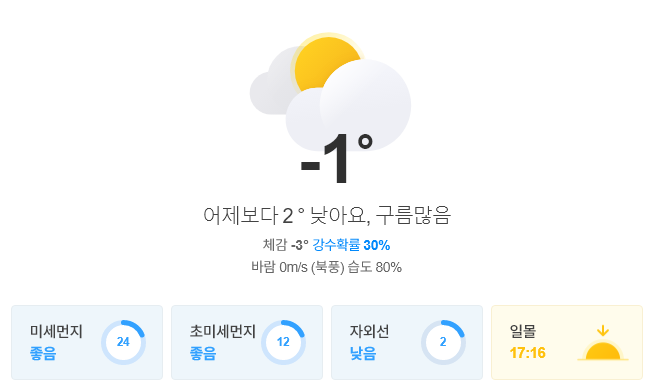
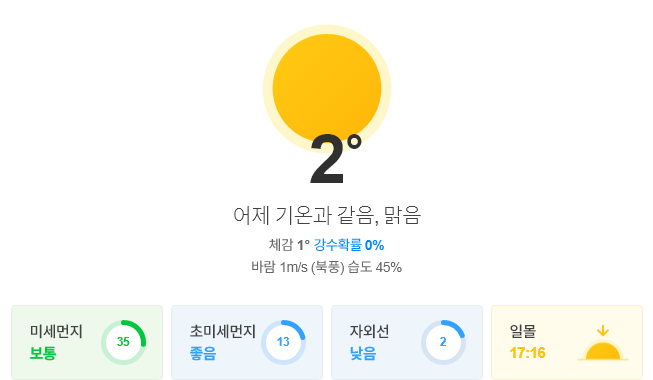
update result

diff --git a/README.md b/README.md
@@ -1,13 +1,13 @@
-##  2020-11-30 09:16:41   월요일 
-##### 날씨   -   어제보다 3 ° 낮아요, 구름많음
+##  2020-11-30 12:07:23   월요일 
+##### 날씨   -   어제 기온과 같음, 맑음
 <center><img src="../img/naver_weather_week.png"></center>
 ----
 ----
 ##### 지수
 <table border="1" bordercolor="blue" align = "center" >
 <tr align = "right" > <td>Item</td><td>Point</td><td>Diff</td><td>Rate</td><td>Buy</td><td>Sell</td><td>...</td>  </tr>
-<tr align = "right" > <td>KOSPI</td><td>2,634.51</td><td>1.06</td><td><font size="3" color="red" >0.04%</font> </td><td><font size="3" color="black">2,000</font></td><td><font size="3" color="black">3,000</font></td><td>0</td>  </tr>
-<tr align = "right" > <td>KOSDAQ</td><td>890.7</td><td>5.14</td><td><font size="3" color="red" >0.58%</font> </td><td><font size="3" color="black">0</font></td><td><font size="3" color="black">0</font></td><td>0</td>  </tr>
+<tr align = "right" > <td>KOSPI</td><td>2,621.77</td><td>-11.68</td><td><font size="3" color="blue" >-0.44%</font> </td><td><font size="3" color="black">2,000</font></td><td><font size="3" color="black">3,000</font></td><td>0</td>  </tr>
+<tr align = "right" > <td>KOSDAQ</td><td>889.21</td><td>3.65</td><td><font size="3" color="red" >0.41%</font> </td><td><font size="3" color="black">0</font></td><td><font size="3" color="black">0</font></td><td>0</td>  </tr>
 </table>
 ----
 ##### 세계
@@ -16,14 +16,14 @@
 <tr align = "right" > <td>DOW</td><td>29,910.37</td><td>37.9</td><td><font size="3" color="red" >0.13%</font></td><td><font size="3" color="black">0</font></td><td><font size="3" color="black">0</font></td><td>0</td>  </tr>
 <tr align = "right" > <td>NASDAQ</td><td>12,205.85</td><td>111.45</td><td><font size="3" color="red" >0.92%</font></td><td><font size="3" color="black">0</font></td><td><font size="3" color="black">0</font></td><td>0</td>  </tr>
 <tr align = "right" > <td>S&P</td><td>3,638.35</td><td>8.7</td><td><font size="3" color="red" >0.24%</font></td><td><font size="3" color="black">0</font></td><td><font size="3" color="black">0</font></td><td>0</td>  </tr>
-<tr align = "right" > <td>SHANHAI</td><td>3,408.31</td><td>38.57</td><td><font size="3" color="red" >1.14%</font></td><td><font size="3" color="black">0</font></td><td><font size="3" color="black">0</font></td><td>0</td>  </tr>
+<tr align = "right" > <td>SHANHAI</td><td>3,442.16</td><td>33.85</td><td><font size="3" color="red" >0.99%</font></td><td><font size="3" color="black">0</font></td><td><font size="3" color="black">0</font></td><td>0</td>  </tr>
 <tr align = "right" > <td>INDIA</td><td>44,149.72</td><td>-110.02</td><td><font size="3" color="blue" >-0.25%</font></td><td><font size="3" color="black">0</font></td><td><font size="3" color="black">0</font></td><td>0</td>  </tr>
 </table>
 ----
 ##### 시장
 <table border="1" bordercolor="blue" align = "center" >
 <tr align = "right" > <td>Item</td><td>Price</td><td>Diff</td><td>Rate</td><td>Buy</td><td>Sell</td><td>...</td>  </tr>
-<tr align = "right" > <td>USD</td><td>1,104.0</td><td>-0.5</td><td><font size="3" color="blue">-0.05%</font></td><td><font size="3" color="orangered">1,110</font></td><td><font size="3" color="black">0</font></td><td>0</td>  </tr>
+<tr align = "right" > <td>USD</td><td>1,104.0</td><td>-0.8</td><td><font size="3" color="blue">-0.07%</font></td><td><font size="3" color="orangered">1,110</font></td><td><font size="3" color="black">0</font></td><td>0</td>  </tr>
 <tr align = "right" > <td>WTI</td><td>45.53</td><td>-0.18</td><td><font size="3" color="blue">-0.39%</font></td><td><font size="3" color="black">29.0</font></td><td><font size="3" color="black">0</font></td><td>0</td>  </tr>
 <tr align = "right" > <td>GOLD</td><td>1,781.0</td><td>-23.6</td><td><font size="3" color="blue">-1.3%</font></td><td><font size="3" color="black">0</font></td><td><font size="3" color="black">0</font></td><td>0</td>  </tr>
 </table>
@@ -31,23 +31,23 @@
 ##### 주가
 <table border="1" bordercolor="blue" align = "center" >
 <tr align = "right" > <td>Item</td><td>Price</td><td>Diff</td><td>Rate</td><td>Purchased</td><td>Sell</td><td>Buy</td>  </tr>
-<tr align = "right" > <td>한국 전력</td><td>21,800</td><td>-100</td><td><font size="3" color="blue">-0.46%</font></td><td>25,720</td><td><font size="3" color="black">30,000</font></td><td><font size="3" color="black">14,000</font></td>  </tr>
-<tr align = "right" > <td>삼성엔지니어.</td><td>13,800</td><td>-250</td><td><font size="3" color="blue">-1.78%</font></td><td>18,935</td><td><font size="3" color="black">20,000</font></td><td><font size="3" color="black">8,000</font></td>  </tr>
-<tr align = "right" > <td>CJ CGV</td><td>22,900</td><td>150</td><td><font size="3" color="red">0.66%</font></td><td>34,895</td><td><font size="3" color="black">36,000</font></td><td><font size="3" color="black">0</font></td>  </tr>
-<tr align = "right" > <td>아모레퍼시픽</td><td>180,500</td><td>-3,000</td><td><font size="3" color="blue">-1.63%</font></td><td>235,350</td><td><font size="3" color="black">240,000</font></td><td><font size="3" color="black">130,000</font></td>  </tr>
-<tr align = "right" > <td>한화</td><td>26,150</td><td>-200</td><td><font size="3" color="blue">-0.76%</font></td><td>25,550</td><td><font size="3" color="black">30,000</font></td><td><font size="3" color="black">20,000</font></td>  </tr>
-<tr align = "right" > <td>NAVER</td><td>284,000</td><td>-500</td><td><font size="3" color="blue">-0.18%</font></td><td>147,200</td><td><font size="3" color="black">400,000</font></td><td><font size="3" color="black">150,000</font></td>  </tr>
-<tr align = "right" > <td>LG 화학우</td><td>368,000</td><td>-4,500</td><td><font size="3" color="blue">-1.21%</font></td><td>202,490</td><td><font size="3" color="black">500,000</font></td><td><font size="3" color="black">200,000</font></td>  </tr>
-<tr align = "right" > <td>스튜디오드래.</td><td>80,300</td><td>0</td><td><font size="3" color="black">0.0%</font></td><td>81,243</td><td><font size="3" color="black">100,000</font></td><td><font size="3" color="black">78,000</font></td>  </tr>
-<tr align = "right" > <td>글로벌럭셔리</td><td>14,400</td><td>25</td><td><font size="3" color="red">0.17%</font></td><td>0</td><td><font size="3" color="black">15,000</font></td><td><font size="3" color="black">10,000</font></td>  </tr>
-<tr align = "right" > <td>QV미국IT</td><td>24,760</td><td>290</td><td><font size="3" color="red">1.19%</font></td><td>0</td><td><font size="3" color="black">30,000</font></td><td><font size="3" color="black">20,000</font></td>  </tr>
-<tr align = "right" > <td>호텔 신라</td><td>81,400</td><td>400</td><td><font size="3" color="red">0.49%</font></td><td>72,800</td><td><font size="3" color="black">100,000</font></td><td><font size="3" color="black">70,000</font></td>  </tr>
-<tr align = "right" > <td>S-Oil</td><td>70,700</td><td>200</td><td><font size="3" color="red">0.28%</font></td><td>62,842</td><td><font size="3" color="black">100,000</font></td><td><font size="3" color="black">50,000</font></td>  </tr>
-<tr align = "right" > <td>LG전자</td><td>87,100</td><td>-700</td><td><font size="3" color="blue">-0.8%</font></td><td>82,022</td><td><font size="3" color="black">100,000</font></td><td><font size="3" color="black">60,000</font></td>  </tr>
-<tr align = "right" > <td>지역난방공사</td><td>40,300</td><td>250</td><td><font size="3" color="red">0.62%</font></td><td>43,590</td><td><font size="3" color="black">60,000</font></td><td><font size="3" color="black">30,000</font></td>  </tr>
-<tr align = "right" > <td>KOEDX은행</td><td>6,285</td><td>-55</td><td><font size="3" color="blue">-0.87%</font></td><td>5,178</td><td><font size="3" color="black">6,000</font></td><td><font size="3" color="black">4,500</font></td>  </tr>
-<tr align = "right" > <td>삼성 전자우</td><td>62,200</td><td>400</td><td><font size="3" color="red">0.65%</font></td><td>48,250</td><td><font size="3" color="black">56,000</font></td><td><font size="3" color="black">45,000</font></td>  </tr>
-<tr align = "right" > <td>한화에어로스.</td><td>26,850</td><td>-50</td><td><font size="3" color="blue">-0.19%</font></td><td>25,700</td><td><font size="3" color="black">30,000</font></td><td><font size="3" color="black">24,000</font></td>  </tr>
-<tr align = "right" > <td>한국금융지주</td><td>76,600</td><td>-500</td><td><font size="3" color="blue">-0.65%</font></td><td>0</td><td><font size="3" color="black">82,000</font></td><td><font size="3" color="black">60,000</font></td>  </tr>
+<tr align = "right" > <td>한국 전력</td><td>21,650</td><td>-250</td><td><font size="3" color="blue">-1.14%</font></td><td>25,720</td><td><font size="3" color="black">30,000</font></td><td><font size="3" color="black">14,000</font></td>  </tr>
+<tr align = "right" > <td>삼성엔지니어.</td><td>13,600</td><td>-450</td><td><font size="3" color="blue">-3.2%</font></td><td>18,935</td><td><font size="3" color="black">20,000</font></td><td><font size="3" color="black">8,000</font></td>  </tr>
+<tr align = "right" > <td>CJ CGV</td><td>22,850</td><td>100</td><td><font size="3" color="red">0.44%</font></td><td>34,895</td><td><font size="3" color="black">36,000</font></td><td><font size="3" color="black">0</font></td>  </tr>
+<tr align = "right" > <td>아모레퍼시픽</td><td>182,500</td><td>-1,000</td><td><font size="3" color="blue">-0.54%</font></td><td>235,350</td><td><font size="3" color="black">240,000</font></td><td><font size="3" color="black">130,000</font></td>  </tr>
+<tr align = "right" > <td>한화</td><td>26,000</td><td>-350</td><td><font size="3" color="blue">-1.33%</font></td><td>25,550</td><td><font size="3" color="black">30,000</font></td><td><font size="3" color="black">20,000</font></td>  </tr>
+<tr align = "right" > <td>NAVER</td><td>280,500</td><td>-4,000</td><td><font size="3" color="blue">-1.41%</font></td><td>147,200</td><td><font size="3" color="black">400,000</font></td><td><font size="3" color="black">150,000</font></td>  </tr>
+<tr align = "right" > <td>LG 화학우</td><td>366,000</td><td>-6,500</td><td><font size="3" color="blue">-1.74%</font></td><td>202,490</td><td><font size="3" color="black">500,000</font></td><td><font size="3" color="black">200,000</font></td>  </tr>
+<tr align = "right" > <td>스튜디오드래.</td><td>80,600</td><td>300</td><td><font size="3" color="red">0.37%</font></td><td>81,243</td><td><font size="3" color="black">100,000</font></td><td><font size="3" color="black">78,000</font></td>  </tr>
+<tr align = "right" > <td>글로벌럭셔리</td><td>14,355</td><td>-20</td><td><font size="3" color="blue">-0.14%</font></td><td>0</td><td><font size="3" color="black">15,000</font></td><td><font size="3" color="black">10,000</font></td>  </tr>
+<tr align = "right" > <td>QV미국IT</td><td>24,600</td><td>130</td><td><font size="3" color="red">0.53%</font></td><td>0</td><td><font size="3" color="black">30,000</font></td><td><font size="3" color="black">20,000</font></td>  </tr>
+<tr align = "right" > <td>호텔 신라</td><td>80,800</td><td>-200</td><td><font size="3" color="blue">-0.25%</font></td><td>72,800</td><td><font size="3" color="black">100,000</font></td><td><font size="3" color="black">70,000</font></td>  </tr>
+<tr align = "right" > <td>S-Oil</td><td>70,300</td><td>-200</td><td><font size="3" color="blue">-0.28%</font></td><td>62,842</td><td><font size="3" color="black">100,000</font></td><td><font size="3" color="black">50,000</font></td>  </tr>
+<tr align = "right" > <td>LG전자</td><td>86,500</td><td>-1,300</td><td><font size="3" color="blue">-1.48%</font></td><td>82,022</td><td><font size="3" color="black">100,000</font></td><td><font size="3" color="black">60,000</font></td>  </tr>
+<tr align = "right" > <td>지역난방공사</td><td>39,950</td><td>-100</td><td><font size="3" color="blue">-0.25%</font></td><td>43,590</td><td><font size="3" color="black">60,000</font></td><td><font size="3" color="black">30,000</font></td>  </tr>
+<tr align = "right" > <td>KOEDX은행</td><td>6,245</td><td>-95</td><td><font size="3" color="blue">-1.5%</font></td><td>5,178</td><td><font size="3" color="black">6,000</font></td><td><font size="3" color="black">4,500</font></td>  </tr>
+<tr align = "right" > <td>삼성 전자우</td><td>62,000</td><td>200</td><td><font size="3" color="red">0.32%</font></td><td>48,250</td><td><font size="3" color="black">56,000</font></td><td><font size="3" color="black">45,000</font></td>  </tr>
+<tr align = "right" > <td>한화에어로스.</td><td>26,800</td><td>-100</td><td><font size="3" color="blue">-0.37%</font></td><td>25,700</td><td><font size="3" color="black">30,000</font></td><td><font size="3" color="black">24,000</font></td>  </tr>
+<tr align = "right" > <td>한국금융지주</td><td>76,200</td><td>-900</td><td><font size="3" color="blue">-1.17%</font></td><td>0</td><td><font size="3" color="black">82,000</font></td><td><font size="3" color="black">60,000</font></td>  </tr>
 </table>
 ----
